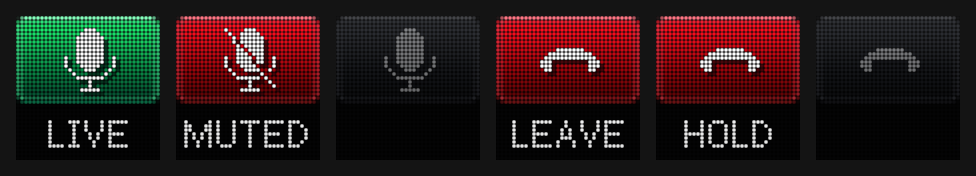
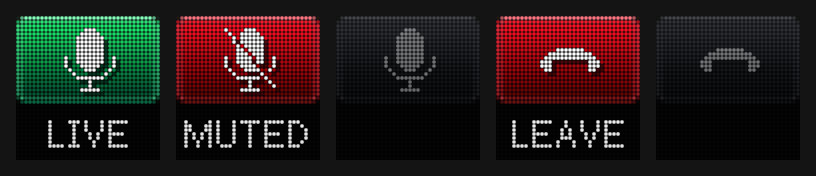
Publish only checked builds; open a new plugin in Stream Deck by itself
- build.yml: the checks run before either release is published. Every
  published build reaches every copy through the updater, so one that
  fails its checks must never be published.
- Updater: once the app is up to date and you're off calls, a newer Stream
  Deck plugin is opened in Stream Deck, once per version, when updates
  install automatically; Stream Deck asks to install it. The menu item and
  Settings button stay for doing it by hand.
- Settings > Status always shows the installed plugin's version, re-read
  when the window opens.
- Updates.newerPlugin holds the version decision, with checks.
- README: the meeting keys picture drops HOLD, which only shows with the
  Leave key set to hold.

Claude-Session: https://claude.ai/code/session_012EC8zZ9P1uhjwiumJLr4Jz

diff --git a/Sources/Updater.swift b/Sources/Updater.swift
@@ -16,7 +16,9 @@ import Security
  * Anyway. Permissions carry over, as it's the same app to macOS.
  *
  * The Stream Deck plugin can't be installed quietly (Stream Deck always
- * asks), so a newer one is offered: one click opens it in Stream Deck.
+ * asks), so a newer one is opened in Stream Deck, once per version, when
+ * you're off calls and the app itself is up to date: Stream Deck asks to
+ * install it. Or by hand, from the menu or Settings.
  */
 @MainActor
 final class Updater: ObservableObject {
@@ -34,6 +36,7 @@ final class Updater: ObservableObject {
     @Published private(set) var available: Updates.Release?
     @Published private(set) var lastChecked: Date?
     @Published private(set) var plugin: PluginUpdate?
+    @Published private(set) var pluginInstalled: String?     // the plugin's version in Stream Deck, if it has it
     @Published var automatic: Bool {
         didSet { UserDefaults.standard.set(automatic, forKey: "installUpdatesAutomatically") }
     }
@@ -47,6 +50,13 @@ final class Updater: ObservableObject {
 
     private var timer: Timer?
     private var failedBuild: Int?           // not tried again automatically until a newer one comes
+    private var found: [Updates.Release] = []
+
+    /// The last plugin version opened in Stream Deck, so each is only offered once.
+    private var pluginOffered: String? {
+        get { UserDefaults.standard.string(forKey: "streamDeckPluginOffered") }
+        set { UserDefaults.standard.set(newValue, forKey: "streamDeckPluginOffered") }
+    }
 
     static let checkEvery: TimeInterval = 4 * 3600
 
@@ -68,9 +78,14 @@ final class Updater: ObservableObject {
 
     private func tick() {
         if Date().timeIntervalSince(lastChecked ?? .distantPast) >= Self.checkEvery { check() }
-        guard automatic, let next = available, next.build != failedBuild, phase == .available,
-              !isBusy(), installProblem == nil else { return }
-        install()
+        guard automatic, !isBusy() else { return }
+        if let next = available, next.build != failedBuild, phase == .available, installProblem == nil {
+            install()       // the app first: the new one then offers its plugin
+        } else if let offer = plugin, offer.available != pluginOffered,
+                  phase != .checking, phase != .downloading, phase != .installing {
+            pluginOffered = offer.available
+            updatePlugin()
+        }
     }
 
     /// Why the app can't replace itself where it is, or nil when it can.
@@ -108,7 +123,8 @@ final class Updater: ObservableObject {
             } else {
                 phase = available == nil ? .upToDate : .available
             }
-            plugin = pluginUpdate(found)
+            self.found = found
+            refreshPlugin()
         }
     }
 
@@ -240,14 +256,20 @@ final class Updater: ObservableObject {
             .appendingPathComponent("com.elgato.StreamDeck/Plugins/com.woodall.busybarsign.sdPlugin/manifest.json")
     }
 
-    /// A newer plugin than the one Stream Deck has, if it has one at all.
-    private func pluginUpdate(_ releases: [Updates.Release]) -> PluginUpdate? {
-        guard let data = try? Data(contentsOf: Self.pluginManifest),
-              let manifest = try? JSONSerialization.jsonObject(with: data) as? [String: Any],
-              let installed = manifest["Version"] as? String else { return nil }
-        let newest = releases.compactMap(\.plugin).max { Updates.isNewer($1, than: $0) }
-        guard let newest, Updates.isNewer(newest, than: installed) else { return nil }
-        return PluginUpdate(installed: installed, available: newest)
+    /// The plugin's version in Stream Deck, if it has it.
+    private static func installedPlugin() -> String? {
+        guard let data = try? Data(contentsOf: pluginManifest),
+              let manifest = try? JSONSerialization.jsonObject(with: data) as? [String: Any] else { return nil }
+        return manifest["Version"] as? String
+    }
+
+    /// Reads which plugin Stream Deck has now, against the releases last checked.
+    func refreshPlugin() {
+        let installed = Self.installedPlugin()
+        pluginInstalled = installed
+        plugin = installed.flatMap { have in
+            Updates.newerPlugin(found, than: have).map { PluginUpdate(installed: have, available: $0) }
+        }
     }
 
     /// Downloads the plugin and hands it to Stream Deck, which asks to install it.

diff --git a/Checks/update/main.swift b/Checks/update/main.swift
@@ -29,6 +29,15 @@ expect(!Updates.isNewer("1.1.0.0", than: "1.1.0.0"), "the same")
 expect(Updates.isNewer("1.10", than: "1.9.9"), "numbers, not text")
 expect(!Updates.isNewer("1.1", than: "1.1.0.0"), "missing parts are noughts")
 
+// the plugin: the newest across the releases followed, if newer than Stream Deck's
+let previewPlugin = Updates.Release(build: 38, version: "2.1", commit: "c", channel: "preview", plugin: "1.2.1.0")
+let mainPlugin = Updates.Release(build: 37, version: "2.1", commit: "d", channel: "latest", plugin: "1.2.0.0")
+expect(Updates.newerPlugin([previewPlugin, mainPlugin], than: "1.2.0.0") == "1.2.1.0", "a newer plugin in the preview")
+expect(Updates.newerPlugin([mainPlugin, previewPlugin], than: "1.2.0.0") == "1.2.1.0", "whichever order the releases come in")
+expect(Updates.newerPlugin([mainPlugin], than: "1.2.0.0") == nil, "main's plugin is the one installed")
+expect(Updates.newerPlugin([previewPlugin, mainPlugin], than: "1.2.1.0") == nil, "the newest is installed")
+expect(Updates.newerPlugin([main, preview], than: "1.0.0.0") == nil, "releases that don't say")
+
 for f in failures { print("FAIL", f) }
 print(failures.isEmpty ? "updates: releases read and compared as designed" : "\(failures.count) update checks failed")
 exit(failures.isEmpty ? 0 : 1)

diff --git a/Sources/ControlsWindow.swift b/Sources/ControlsWindow.swift
@@ -281,10 +281,15 @@ private struct UpdatesCard: View {
                     Text("\(plugin.installed) installed, \(plugin.available) out").foregroundStyle(.secondary)
                     Button("Update…") { updater.updatePlugin() }
                 }
+            } else if let installed = updater.pluginInstalled {
+                Row(label: "Stream Deck plugin") {
+                    Text("\(installed) · up to date").foregroundStyle(.secondary)
+                }
             }
         }
+        .onAppear { updater.refreshPlugin() }
         if let problem = updater.installProblem { Warning(text: problem) }
-        Note("Busy Bar Sign looks for a new build every four hours and installs it when you're not on a call or in a meeting: it closes and reopens itself in a second or two, keeping its permissions. Only a build signed with the project's certificate is installed.")
+        Note("Busy Bar Sign looks for a new build every four hours and installs it when you're not on a call or in a meeting: it closes and reopens itself in a second or two, keeping its permissions. Only a build signed with the project's certificate is installed. A new Stream Deck plugin is opened in Stream Deck once, when you're off calls; Stream Deck asks before installing it.")
     }
 }
 

diff --git a/streamdeck/tools/sheet.js b/streamdeck/tools/sheet.js
@@ -34,12 +34,13 @@ const keys = [
 
 const readme = process.argv.includes('--readme') || process.argv.includes('--meeting');
 if (process.argv.includes('--meeting')) {
-  keys.splice(0, keys.length, ...[['mute', 'live'], ['mute', 'muted'], ['mute', 'idle'], ['leave', 'active'], ['leave', 'active', true], ['leave', 'idle']]
+  // HOLD only shows with the Leave key set to "hold", so it's not in the README's row
+  keys.splice(0, keys.length, ...[['mute', 'live'], ['mute', 'muted'], ['mute', 'idle'], ['leave', 'active'], ['leave', 'idle']]
     .map((m) => ({ meeting: m })));
 } else if (readme) {
   keys.splice(0, keys.length, ...['call', 'free', 'dnd', 'callIn', 'late', 'lunch'].map((s) => keys.find((k) => k && k.state === s)));
 }
-const G = readme ? 16 : 12, COLS = 6, rows = Math.ceil(keys.length / COLS);
+const G = readme ? 16 : 12, COLS = readme ? keys.length : 6, rows = Math.ceil(keys.length / COLS);
 const W = COLS * (SIZE + G) + G, H = rows * (SIZE + G) + G;
 const sheet = Buffer.alloc(W * H * 3, readme ? 20 : 48);
 keys.forEach((k, i) => {

diff --git a/Sources/UpdateCheck.swift b/Sources/UpdateCheck.swift
@@ -42,6 +42,13 @@ enum Updates {
         releases.filter { $0.build > build }.max { $0.build < $1.build }
     }
 
+    /// The newest plugin among `releases`, if it's newer than the one installed.
+    static func newerPlugin(_ releases: [Release], than installed: String) -> String? {
+        let newest = releases.compactMap(\.plugin).max { isNewer($1, than: $0) }
+        guard let newest, isNewer(newest, than: installed) else { return nil }
+        return newest
+    }
+
     /// Whether dotted version `a` is newer than `b`: "1.2.0.0" over "1.1.0.0".
     static func isNewer(_ a: String, than b: String) -> Bool {
         let x = a.split(separator: ".").map { Int($0) ?? 0 }, y = b.split(separator: ".").map { Int($0) ?? 0 }

diff --git a/README.md b/README.md
@@ -230,7 +230,7 @@ engine and fonts:
 
 ### Mute and Leave keys, for Teams and Zoom
 
-![Mute and Leave keys: LIVE in green, MUTED in red, dark outside a meeting; LEAVE in red, HOLD after a tap on a held key, dark outside a meeting](docs/stream-deck-meeting-keys.png)
+![Mute and Leave keys: LIVE in green, MUTED in red, dark outside a meeting; LEAVE in red, dark outside a meeting](docs/stream-deck-meeting-keys.png)
 
 Two more keys in the same plugin, for the Teams or Zoom meeting you're in —
 what the separate Teams Meeting Keys plugin did, now done by the app, so
@@ -651,9 +651,13 @@ menu-bar menu has **Check for Updates** too.
 - It needs to be able to replace itself: in Applications, opened from there,
   by someone allowed to change Applications. Otherwise Settings says so, and
   the release page is the way.
-- The Stream Deck plugin isn't installed for you — Stream Deck always asks
-  first — but a newer one is offered: **Update…** in Settings, or the menu's
-  **Update the Stream Deck Plugin…**, opens it in Stream Deck.
+- The Stream Deck plugin can't be installed for you — Stream Deck always
+  asks first — so once the app is up to date, a newer plugin is opened in
+  Stream Deck for you, once per version and only when you're off calls (and
+  installing updates automatically): click **Install** when Stream Deck
+  asks. Missed it? **Update…** in Settings ▸ Status, or the menu's **Update
+  the Stream Deck Plugin…**, opens it again. Settings ▸ Status shows the
+  plugin's version.
 
 ## Signing
 
